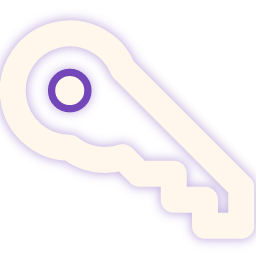
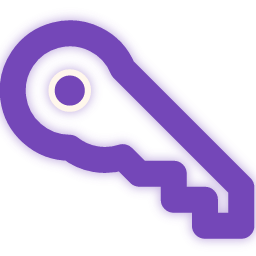
feat: colour the resource symbols with their own affinity
A symbol was cream with a tinted edge, so it read as its own object sitting on the
card rather than as part of it. The glyph now carries the affinity value the
spine, type chip, circuit ring and cost pips already use, so a Power bolt is
#FF6A00 like everything else on a Power card.

Cream drops to a thin outline, which is what keeps the glyph from dissolving where
its own hue also appears behind it. Signal is unchanged in practice, since cream
is its affinity.

Changed region(s): [[0.0, 0.0625, 1.0, 0.9375], [0.1875, 0.25, 0.375, 0.4375]]

diff --git a/scripts/build_icons.py b/scripts/build_icons.py
@@ -103,8 +103,11 @@ for name, (scale, body) in GLYPH.items():
     accent = ACCENT[name]
     # Halo pass: everything painted in the accent and widened, then blurred.
     halo = body.format(f=accent, c=accent, s=accent, w=GLOW["w"], k=GLOW["k"], k2=GLOW["k2"])
-    # Crisp pass: cream glyph, a thin accent edge to keep it from floating.
-    crisp = body.format(f="#FFF7EC", c=accent, s="#FFF7EC", w=1.4, k=5, k2=3)
+    # Crisp pass: the glyph IS the affinity colour, the same value the card's spine,
+    # type chip and circuit ring already carry, so a symbol and its card read as one
+    # thing. Cream is kept only as a thin outline so the glyph does not dissolve into
+    # a same-hue background.
+    crisp = body.format(f=accent, c="#FFF7EC", s=accent, w=1.2, k=5, k2=3)
     alpha = GLOW["signal_alpha"] if name == "signal" else GLOW["alpha"]
     svg = TEMPLATE.format(
         title=TITLE[name], scale=f"{scale:.2f}", halo=halo, crisp=crisp,
